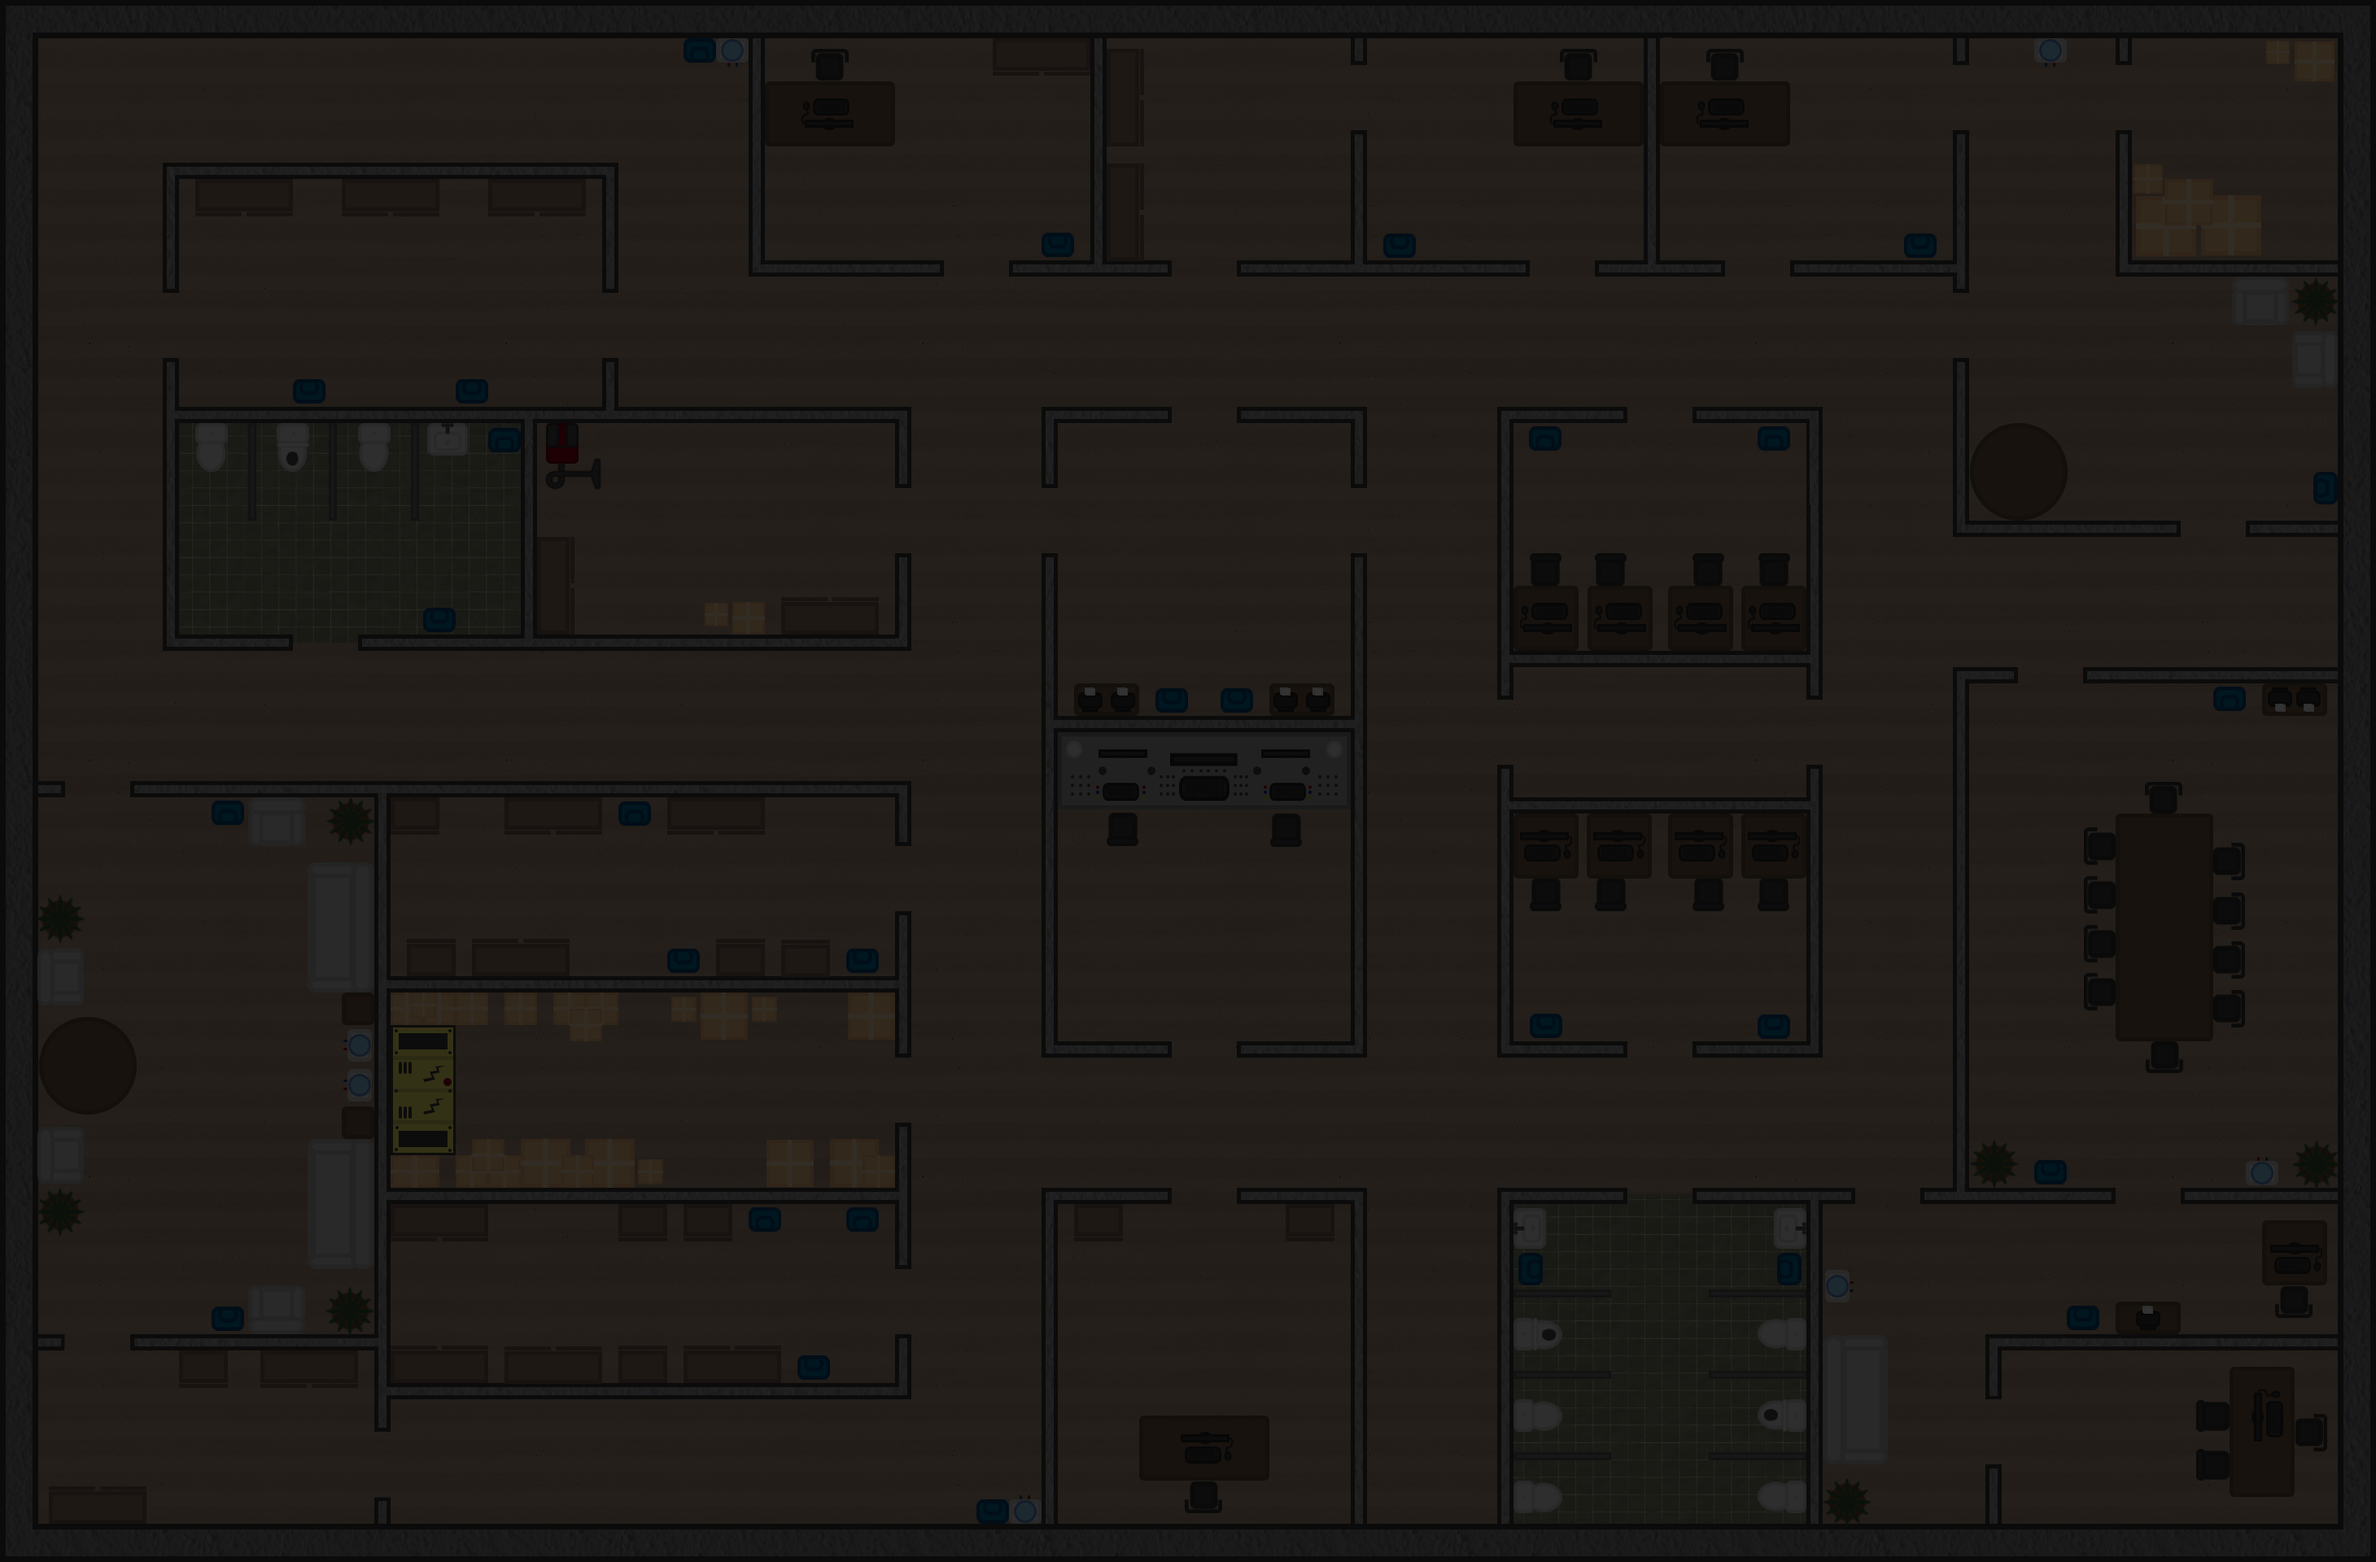
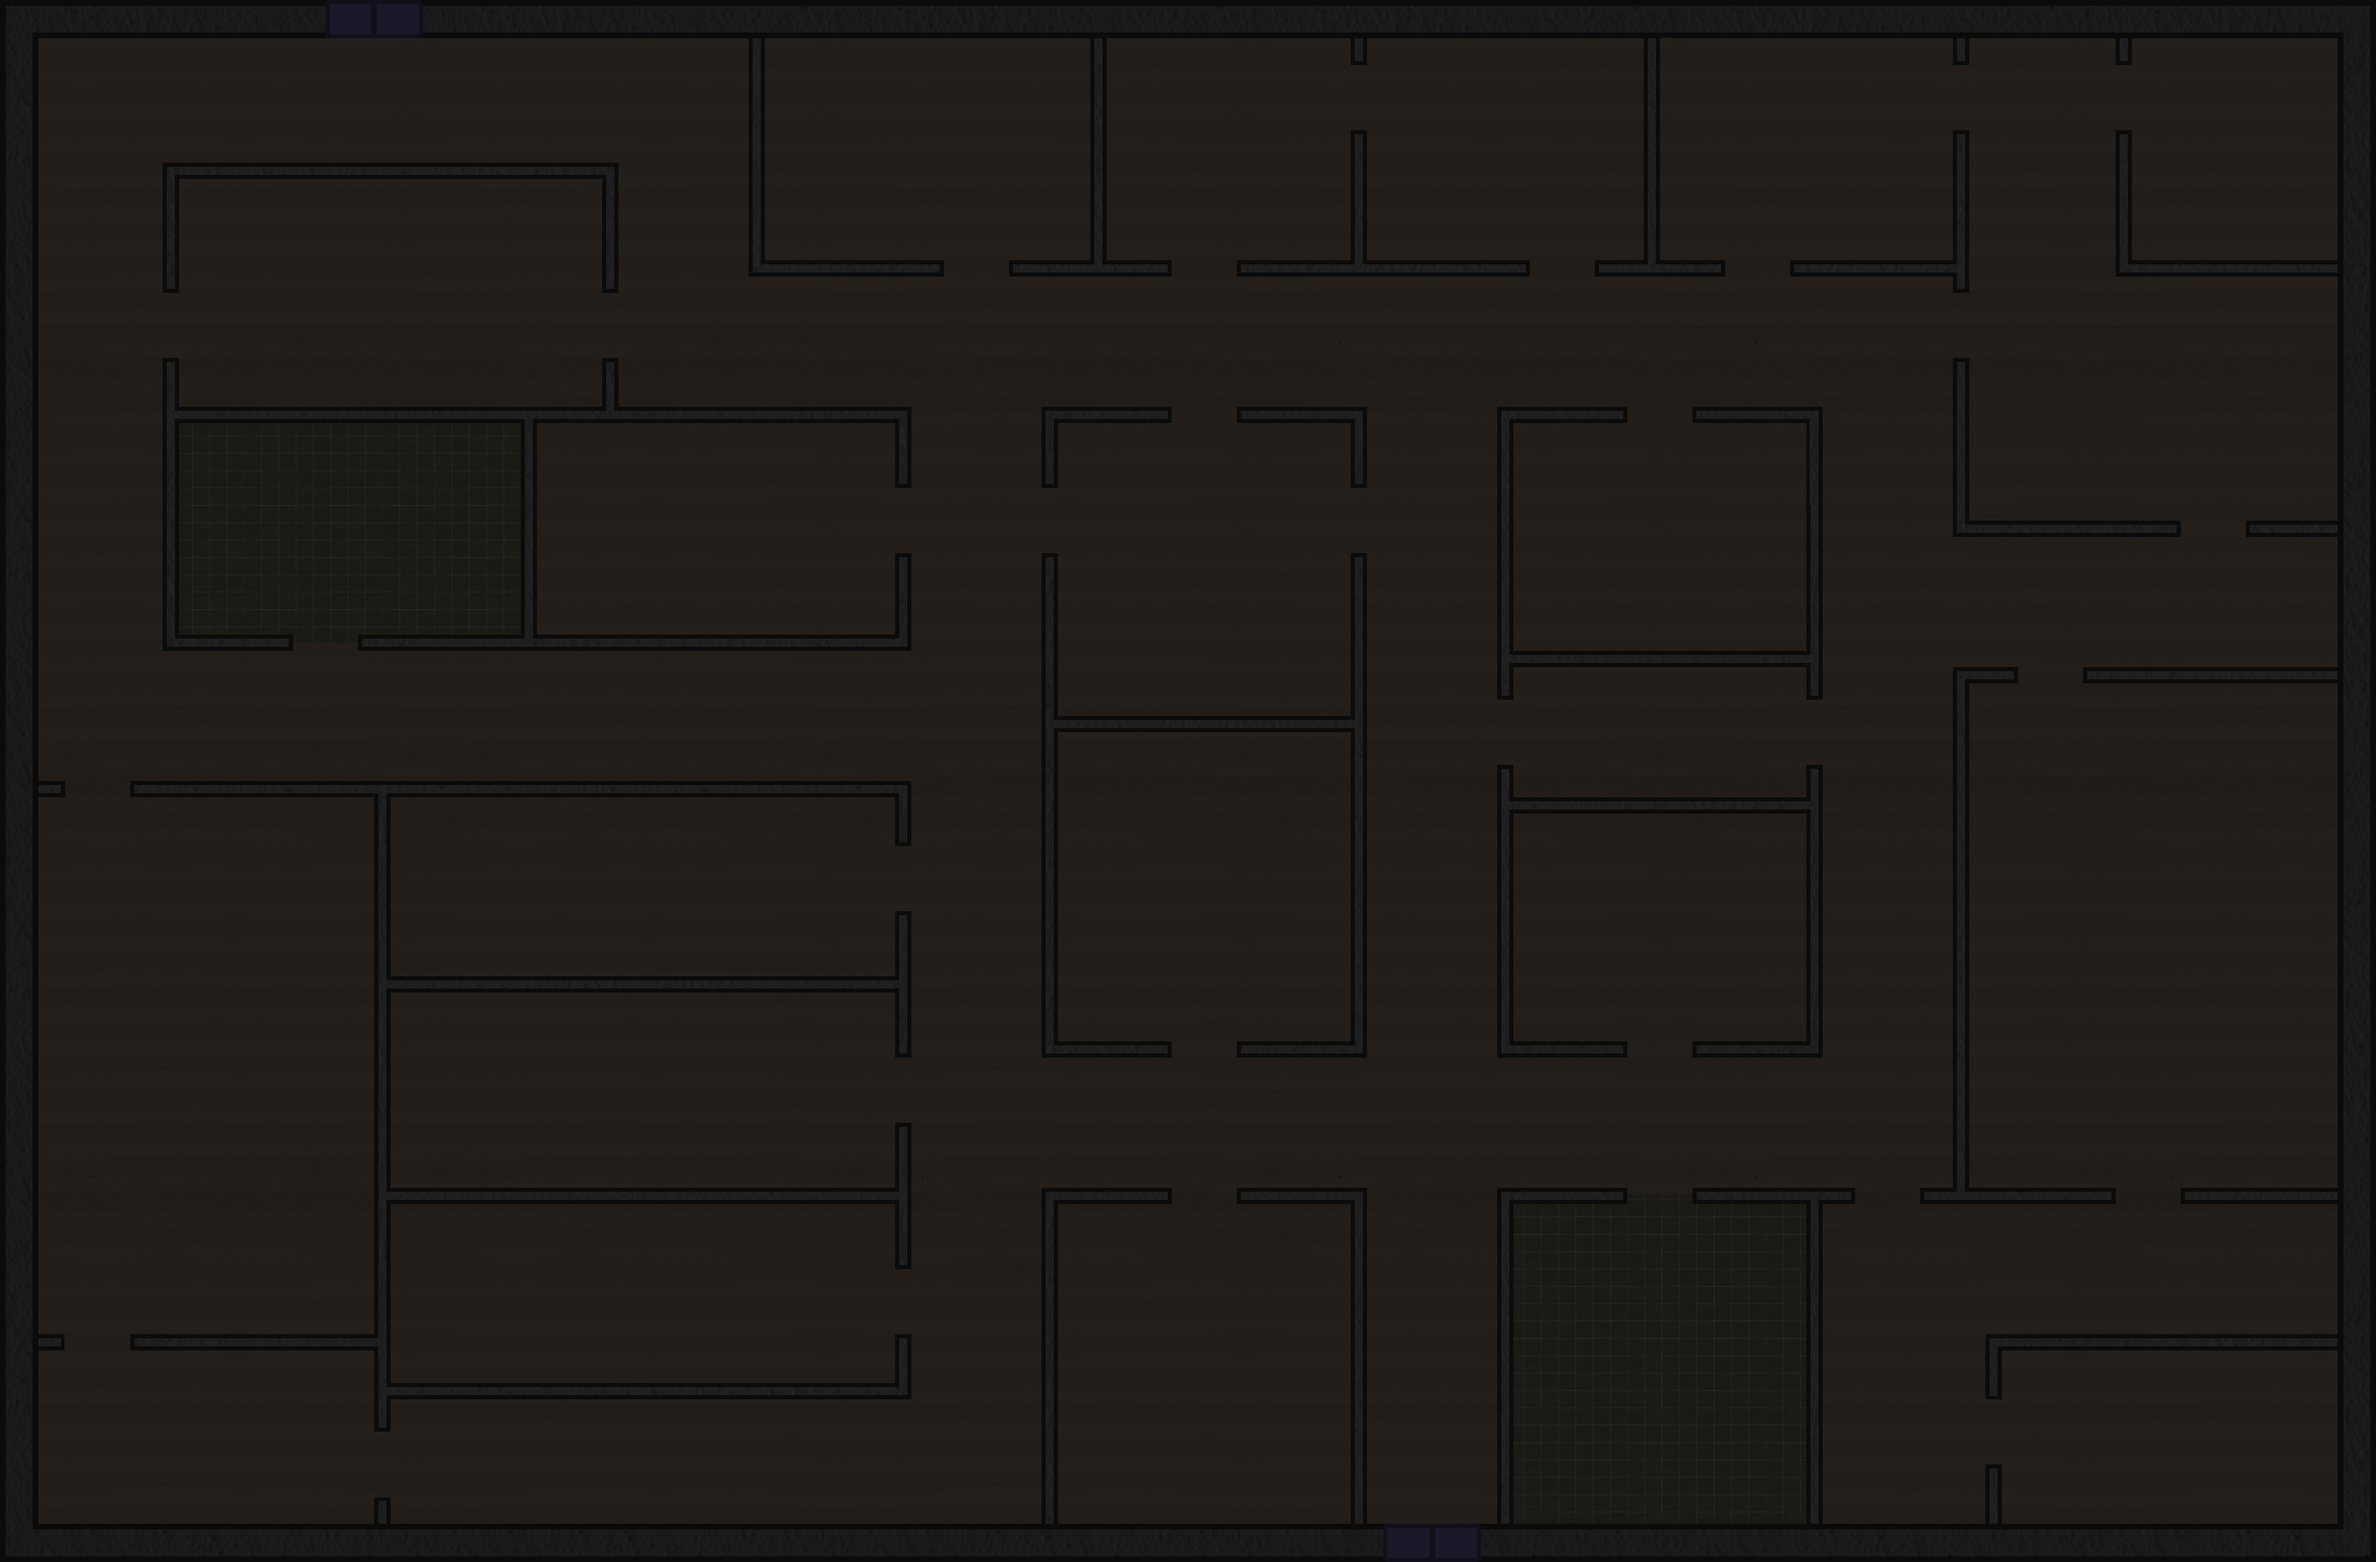
Vision

diff --git a/src/states/level.js b/src/states/level.js
@@ -11,6 +11,12 @@ var fireButton;
 var mapa;
 var capa;
 
+//Variables vision
+var FOV = Math.PI/3;
+var rayos = 30;
+var longitudRayos = 120;
+var paredesBMP;
+
 LastEscape.levelState.prototype = {
 
     preload: function() {
@@ -18,7 +24,7 @@ LastEscape.levelState.prototype = {
 
     create: function() {
         game.world.setBounds(0, 0, 2920, 1920);
-        game.add.tileSprite(0, 0, 2920, 1920, 'background');
+        game.add.sprite(0, 0, 'bgOscuro');
 
         mapa = game.add.tilemap('mapa', 20, 20);
         mapa.addTilesetImage('pared');
@@ -26,13 +32,7 @@ LastEscape.levelState.prototype = {
         capa.resizeWorld();
         mapa.setCollision(0);
 
-        player1 = game.add.sprite(640, 360, 'pj1andar', 0);
-        player1.scale.setTo(0.4, 0.4);
-        player1.anchor.setTo(0.47,0.5);
-        game.physics.enable(player1, Phaser.Physics.ARCADE);
-
-        game.camera.follow(player1);
-
+        //Input
         wKey = game.input.keyboard.addKey(Phaser.Keyboard.W);
         sKey = game.input.keyboard.addKey(Phaser.Keyboard.S);
         aKey = game.input.keyboard.addKey(Phaser.Keyboard.A);
@@ -41,11 +41,26 @@ LastEscape.levelState.prototype = {
         rKey = game.input.keyboard.addKey(Phaser.Keyboard.R);
         fireButton = game.input.mousePointer;
         
+        //Vision
+        paredesBMP = game.make.bitmapData(2920, 1920);
+		paredesBMP.draw("paredesBMP");
+        paredesBMP.update();
+        mascaraVision = this.game.add.graphics(0, 0);
+        bgClaro = game.add.sprite(0, 0, 'bgClaro');
+        bgClaro.mask = mascaraVision;
+
         //Disparo
         bullets = game.add.group();
         bullets.enableBody = true;
         bullets.physicsBodyType = Phaser.Physics.ARCADE;
-        
+
+        //Jugador
+        player1 = game.add.sprite(640, 360, 'pj1andar', 0);
+        player1.scale.setTo(0.4, 0.4);
+        player1.anchor.setTo(0.47,0.5);
+        game.physics.enable(player1, Phaser.Physics.ARCADE);
+
+        game.camera.follow(player1, 0.5, 0.5);
     },
 
     update: function() {
@@ -63,6 +78,8 @@ LastEscape.levelState.prototype = {
         if (rKey.isDown && cargador == 0) {
             recargar();
         }
+
+        calcularVision();
     }
 }
 
@@ -71,17 +88,17 @@ function playerMovement () {
     player1.body.velocity.y = 0;
 
     if (wKey.isDown) {
-        player1.body.velocity.y = -100;
+        player1.body.velocity.y = -120;
     }
     else if (sKey.isDown) {
-        player1.body.velocity.y = 100;
+        player1.body.velocity.y = 120;
     }
 
     if (aKey.isDown) {
-        player1.body.velocity.x = -100;
+        player1.body.velocity.x = -120;
     }
     else if (dKey.isDown) {
-        player1.body.velocity.x = 100;
+        player1.body.velocity.x = 120;
     }
 
     player1.rotation = game.physics.arcade.angleToPointer(player1);
@@ -118,4 +135,32 @@ function fireBullet() {
 }
 function recargar() {
         cargador = cargador +10;
+}
+
+function calcularVision() {
+    var anguloRaton = Math.atan2(player1.y-game.input.worldY,player1.x-game.input.worldX);
+    mascaraVision.clear();
+    mascaraVision.lineStyle(2, 0xffffff, 1);
+    mascaraVision.beginFill(0xffff00);
+    mascaraVision.moveTo(player1.x,player1.y);
+    for(var i = 0; i<rayos; i++){	
+        var anguloEntreRayos = anguloRaton-(FOV/2)+(FOV/rayos)*i
+        var xFinal = player1.x;
+        var yFinal = player1.y;
+        for(var j= 1; j<=longitudRayos; j += 1){
+            var xActual = Math.round(player1.x-(2*j)*Math.cos(anguloEntreRayos));
+            var yActual = Math.round(player1.y-(2*j)*Math.sin(anguloEntreRayos));
+            if(paredesBMP.getPixel32(xActual,yActual) == 0){
+                xFinal = xActual;
+                yFinal = yActual;
+            }
+            else{
+                mascaraVision.lineTo(xFinal,yFinal);
+                break;
+            }
+        }
+        mascaraVision.lineTo(xFinal,yFinal);
+    }
+    mascaraVision.lineTo(player1.x,player1.y); 
+    mascaraVision.endFill();
 }

diff --git a/src/states/preloadLevel.js b/src/states/preloadLevel.js
@@ -6,10 +6,12 @@ LastEscape.preloadLevelState.prototype = {
 
     preload: function() {
         game.load.spritesheet('pj1andar', '/assets/animations/PJ1_andar.png', 139, 140);
-        game.load.image('background', '/assets/images/escenario_edificio.png', 2920, 1920);
+        game.load.image('bgClaro', '/assets/images/escenario_edificio.png', 2920, 1920);
         game.load.tilemap('mapa', 'assets/tilemaps/CollisionMap.csv', null, Phaser.Tilemap.CSV);
-        game.load.image('pared', '/assets/images/colision.png', 8, 8);
+        game.load.image('pared', '/assets/images/colision.png');
         game.load.image('bala_pistola', '/assets/images/bala_pistola.png');
+        game.load.image('paredesBMP', '/assets/images/escenario_colision_luz.png');
+        game.load.image('bgOscuro', '/assets/images/escenario_edificio_oscuro.png');
     },
 
     create: function() {
